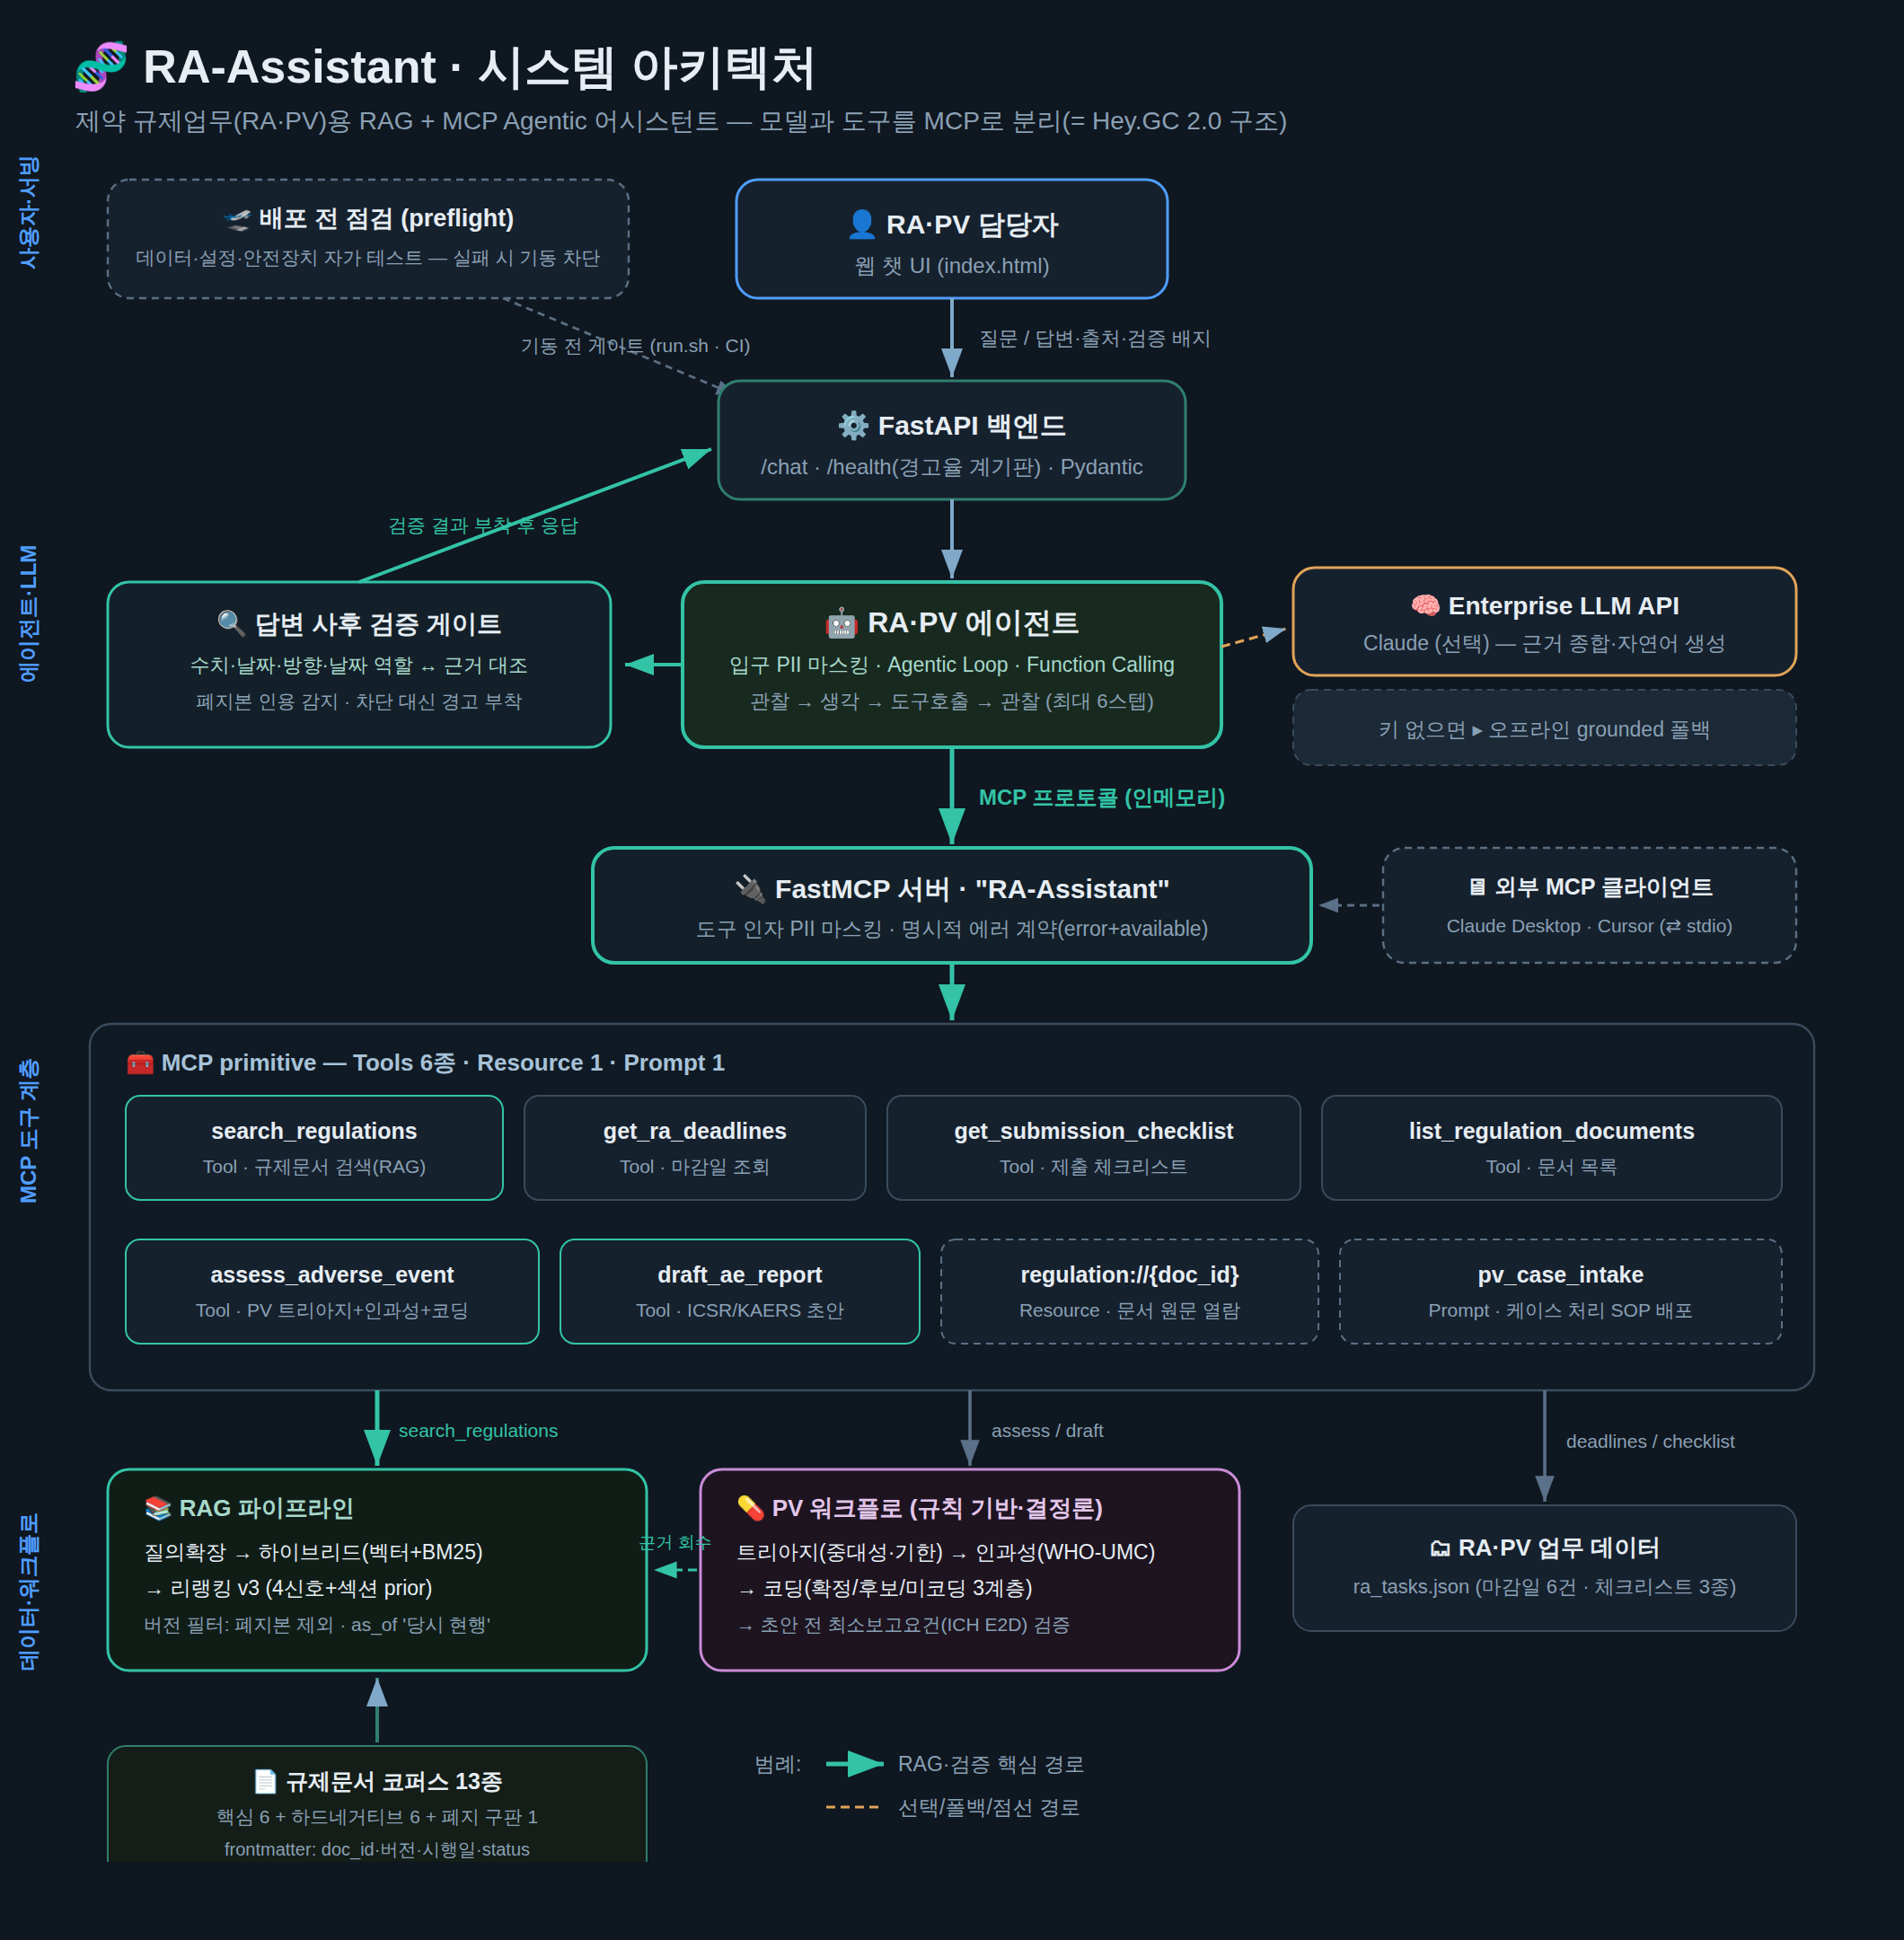
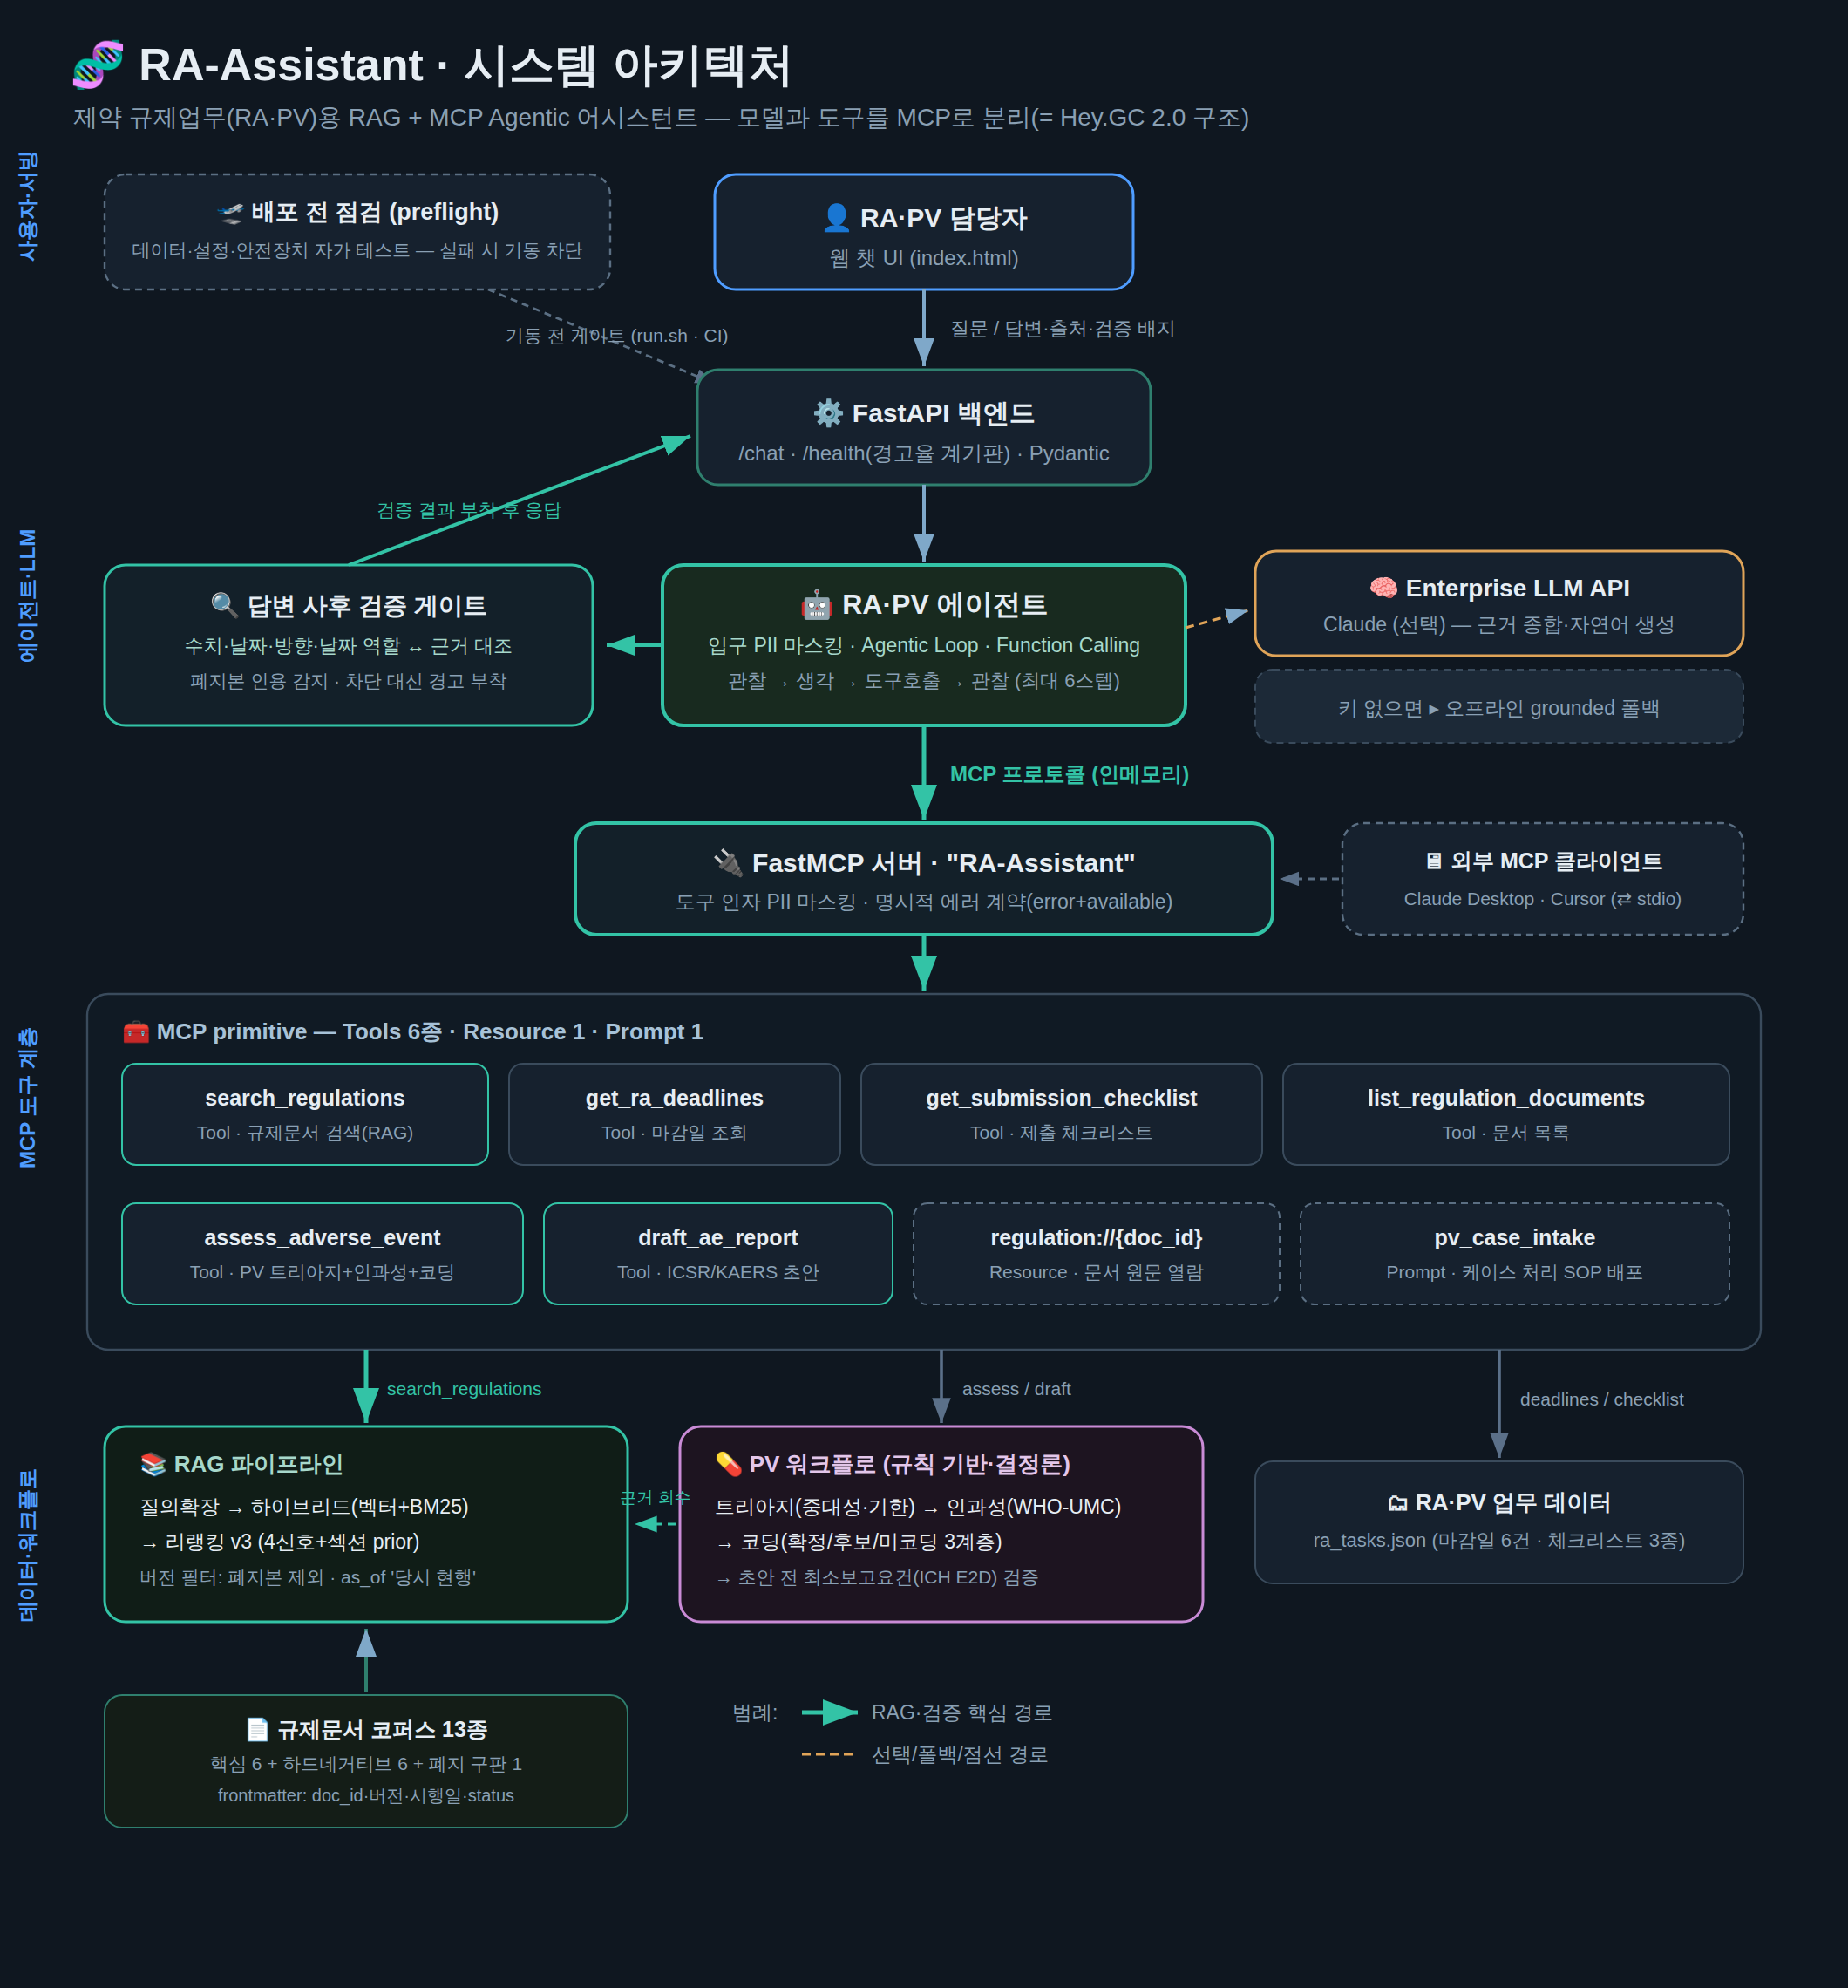
v7 적대적 리뷰(F-8) 반영 — 잔여 에코·표기 우회 봉합 및 산출물 검수
- mcp_server: as_of 형식 오류·Resource doc_id 미매칭의 에러 에코도 마스킹
  (필터 인자 에코와 같은 근거 — 임의 문자열이 원문으로 실려 나가는 경로)
- agent: _redact_history 가 tool_result 블록의 content 문자열(중첩 블록 포함)도
  마스킹 — text 키만 처리하면 같은 우회가 키 이름 차이로 반복된다
- docs/architecture.svg 하단 여백 확장 + PNG 재렌더링(코퍼스 박스 하단
  테두리가 잘려 나가던 렌더 결함 — 픽셀 검수로 확인)
- 면접질문 I-2/I-3: 경력 회사 귀속 정정(ISMS·권한 정비=KB헬스케어,
  NextAuth=에임메드 — 경력기술서와 일치)
- ra_tasks.json: 시한부 만료일(2026-10-13부터 preflight 실패) 명시
- web UI: grounded=True 배지를 "도구 근거 확보"로 — 문서·코드·UI 삼자 일치

Claude-Session: https://claude.ai/code/session_011bLxSirayoSzvjPM2M5sPx

diff --git a/project/web/index.html b/project/web/index.html
@@ -122,7 +122,7 @@ function renderBot(bubble, data) {
   // LLM 모드에서 False 는 모델이 도구 근거 없이 답했다는 뜻(둘 다 실무 참고 금지 신호)
   const gb = data.grounded === false
     ? `<span class="pill warn">⚠ 도구 근거 없음 — 실무 참고 금지</span>`
-    : `<span class="pill ok">✓ 근거 기반</span>`;
+    : `<span class="pill ok">✓ 도구 근거 확보</span>`;
   const lat = (typeof data.latency_ms === 'number')
     ? `<span class="pill">⚡ ${data.latency_ms} ms</span>` : '';
   // PII 마스킹 배지: 개인정보가 외부 LLM/로그로 나가기 전에 마스킹됐음을 표시

diff --git a/project/src/agent/agent.py b/project/src/agent/agent.py
@@ -556,22 +556,32 @@ def _redact_history(history: list[dict]) -> list[dict]:
     명시적으로 처리하는 '예상된 입력 형태'인데, 마스킹만 문자열 표기에서
     성립하는 것은 표기의 우회였다(정규식 \\b 경계가 한글 직결 표기에서만
     깨지던 v6 발견 C 와 동형 — 이력 리스트형 콘텐츠 속 개인정보가 마스킹
-    없이 외부 LLM API 로 나가는 경로, v7 발견). 그 외 타입(비문자열 스칼라
-    등)은 텍스트가 아니므로 그대로 둔다.
+    없이 외부 LLM API 로 나가는 경로, v7 발견). 블록의 텍스트 표기는 두 키다
+    — text(텍스트 블록)와 **content(tool_result 블록의 문자열 본문)**: raw
+    transcript 를 이력으로 되돌려 보내는 사용에서 tool_result 표기만 빠지면
+    같은 우회가 한 키 이름 차이로 반복된다(v7 리뷰 잔여분). 그 외 타입
+    (비문자열 스칼라 등)은 텍스트가 아니므로 그대로 둔다.
     """
+
+    def _redact_block(b: Any) -> Any:
+        if not isinstance(b, dict):
+            return b
+        out_b = dict(b)
+        if isinstance(out_b.get("text"), str):
+            out_b["text"] = redact(out_b["text"]).text
+        if isinstance(out_b.get("content"), str):  # tool_result 블록의 문자열 본문
+            out_b["content"] = redact(out_b["content"]).text
+        elif isinstance(out_b.get("content"), list):  # 중첩 블록 리스트
+            out_b["content"] = [_redact_block(x) for x in out_b["content"]]
+        return out_b
+
     out: list[dict] = []
     for turn in history:
         content = turn.get("content")
         if isinstance(content, str):
             out.append({**turn, "content": redact(content).text})
         elif isinstance(content, list):
-            blocks = []
-            for b in content:
-                if isinstance(b, dict) and isinstance(b.get("text"), str):
-                    blocks.append({**b, "text": redact(b["text"]).text})
-                else:
-                    blocks.append(b)
-            out.append({**turn, "content": blocks})
+            out.append({**turn, "content": [_redact_block(b) for b in content]})
         else:
             out.append(turn)
     return out

diff --git a/project/tests/test_mcp.py b/project/tests/test_mcp.py
@@ -96,6 +96,15 @@ def test_free_text_args_are_masked_at_tool_layer():
     p = pv_case_intake("환자 김철수님(010-1234-5678)이 복용 후 입원")
     assert "010-1234-5678" not in p and "김철수" not in p
     assert "[전화번호]" in p
+    # 날짜 형식 인자의 에러 에코 — 형식이 틀린 as_of 는 임의 문자열일 수 있다
+    bad_as_of = search_regulations("보고 기한", as_of="김철수님 010-1234-5678")
+    assert "error" in bad_as_of and "010-1234-5678" not in bad_as_of["error"]
+    assert "김철수" not in bad_as_of["error"]
+    # Resource 의 미매칭 doc_id 에러 에코도 같은 근거로 마스킹
+    from src.mcp_server.server import get_regulation_document
+
+    missing = get_regulation_document("김철수님 010-1234-5678")
+    assert "010-1234-5678" not in missing and "김철수" not in missing
 
 
 def test_list_documents_contract():

diff --git a/project/src/mcp_server/server.py b/project/src/mcp_server/server.py
@@ -93,8 +93,10 @@ def search_regulations(
             # 에러 문구에 예시 '날짜'를 넣지 않는다 — 에러 응답이 어딘가에서
             # 텍스트로 소비될 때 예시 날짜가 실제 날짜 클레임처럼 읽히는 것을
             # 원천 차단(형식은 포맷 문자열로 충분히 전달된다).
+            # 형식이 틀린 as_of 는 임의 문자열일 수 있다 — 에러 에코도 마스킹
+            # (필터 인자 에코와 같은 근거: 에러 문구에 원문이 실려 나간다).
             return {
-                "error": f"as_of '{as_of}' 가 YYYY-MM-DD 형식이 아님",
+                "error": f"as_of '{redact(as_of).text}' 가 YYYY-MM-DD 형식이 아님",
                 "expected": "YYYY-MM-DD",
             }
     ctx = _get_pipeline().retrieve(
@@ -365,12 +367,14 @@ def pv_case_intake(case_description: str) -> str:
 @mcp.resource("regulation://{doc_id}")
 def get_regulation_document(doc_id: str) -> str:
     """규제문서 원문 전체를 doc_id(예: REG-003)로 조회한다."""
+    from ..pv.redactor import redact
     from ..rag.loader import load_documents
 
     for doc in load_documents(config.REG_DIR):
         if doc.doc_id.lower() == doc_id.lower():
             return f"# {doc.title}\n\n{doc.text}"
-    return f"문서를 찾을 수 없음: {doc_id}"
+    # 미매칭 doc_id 는 임의 문자열일 수 있다 — 에러 에코도 마스킹(도구 인자와 동일 근거)
+    return f"문서를 찾을 수 없음: {redact(doc_id).text}"
 
 
 @mcp.tool

diff --git a/project/tests/test_agent.py b/project/tests/test_agent.py
@@ -253,12 +253,16 @@ def test_redact_history_masks_block_content():
         {"role": "user", "content": "주민번호는 900101-1234567입니다"},
         {"role": "user", "content": [
             {"type": "text", "text": "보호자 연락처는 010-9876-5432로 부탁드립니다"},
-            {"type": "tool_result", "tool_use_id": "t1"},  # 텍스트 아닌 블록은 그대로
+            # tool_result 블록의 문자열 본문(content 키)도 텍스트 표기다 —
+            # raw transcript 를 이력으로 되돌려 보내는 사용에서 이 키만 빠지면
+            # 같은 우회가 키 이름 차이로 반복된다.
+            {"type": "tool_result", "tool_use_id": "t1", "content": "환자 전화 010-1111-2222"},
         ]},
         {"role": "user", "content": 42},  # 비문자열 스칼라 — 텍스트 아님, 그대로
     ])
     assert "900101-1234567" not in turns[0]["content"]
     assert "010-9876-5432" not in turns[1]["content"][0]["text"]
     assert "[전화번호]" in turns[1]["content"][0]["text"]
-    assert turns[1]["content"][1] == {"type": "tool_result", "tool_use_id": "t1"}
+    assert "010-1111-2222" not in turns[1]["content"][1]["content"]
+    assert turns[1]["content"][1]["tool_use_id"] == "t1"
     assert turns[2]["content"] == 42